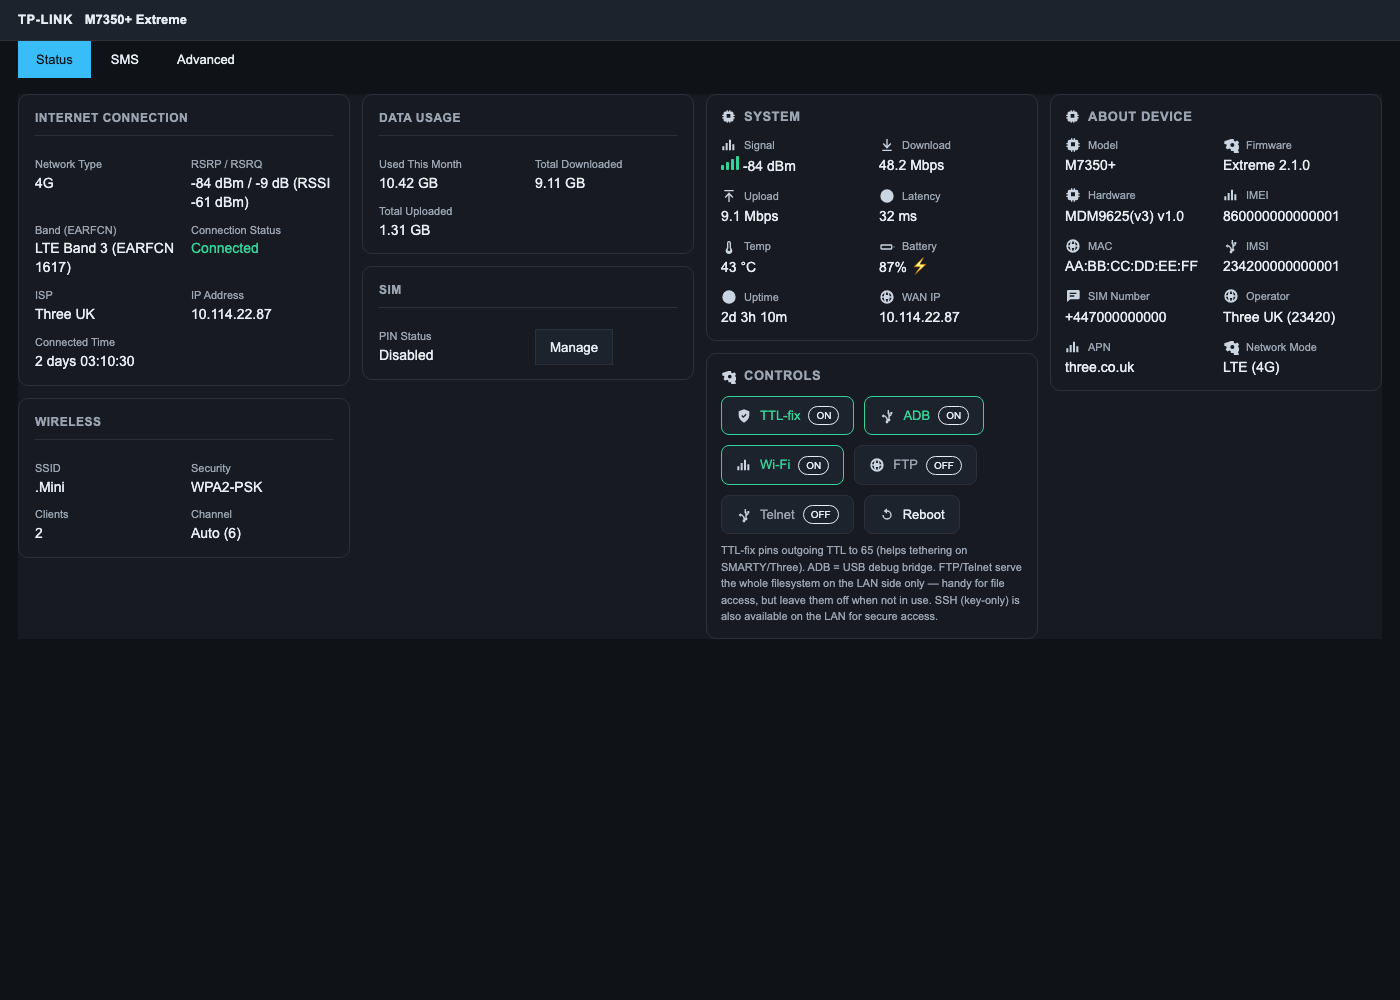
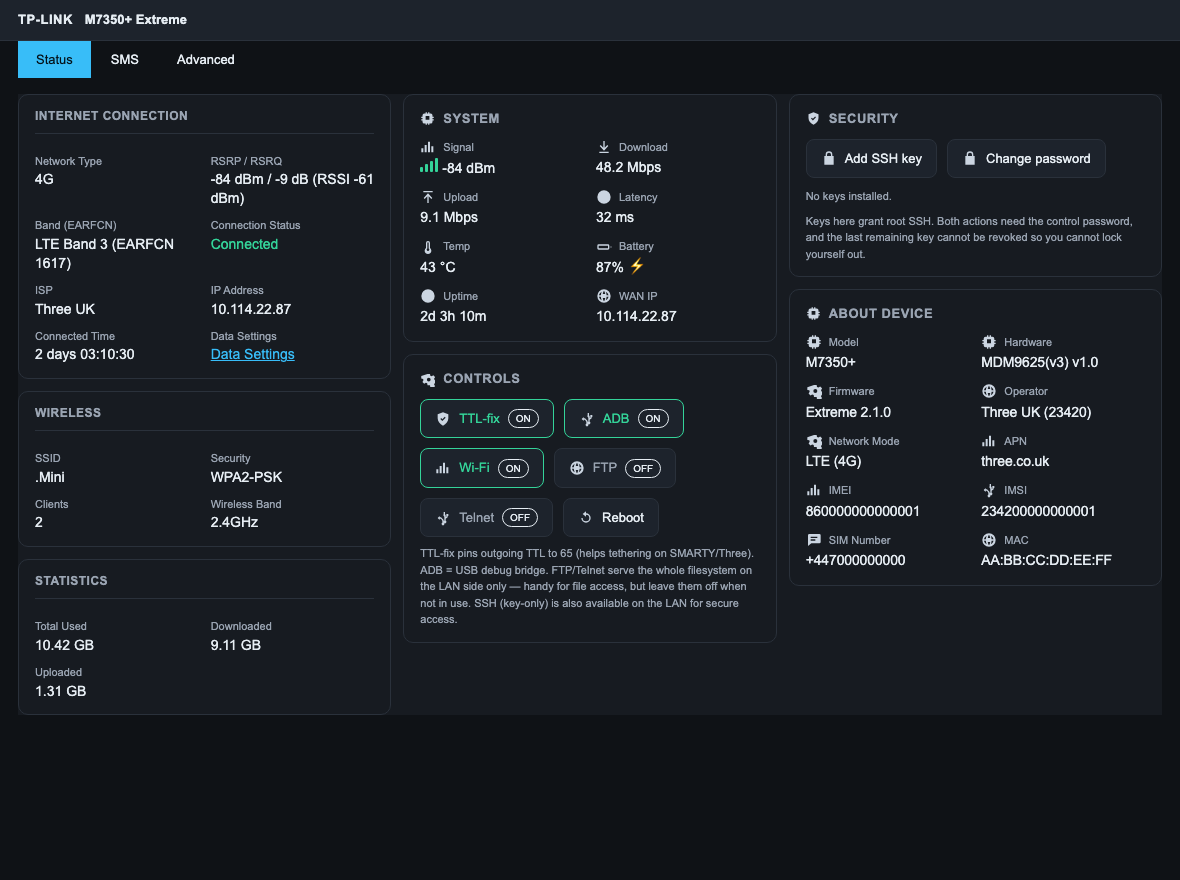
Release 2.3.1: status-page layout fixes, refreshed screenshots
Screenshots regenerated from the corrected mock, so docs/ now shows the layout
the device actually renders rather than the invented one.

diff --git a/tools/mock/status.html b/tools/mock/status.html
@@ -28,7 +28,9 @@
 
       <!-- Also hidden, and positioned by the stock stylesheet. Dissolving these
            with display:contents released their contents into the page. -->
-      <div class="popup" id="errMessagePopup"><div class="textContent">An error occurred.</div></div>
+      <!-- Class list matches the firmware exactly (no "hide" class); the framework
+           hides this at runtime with an inline style, so the mock does the same. -->
+      <div class="popup" id="errMessagePopup" style="display:none"><div class="textContent">An error occurred.</div></div>
       <div class="help-popup hide" id="helpPopup"><div class="help-content" id="helpContent">Help text.</div></div>
 
       <div class="connectionSection">

diff --git a/CHANGELOG.md b/CHANGELOG.md
@@ -2,6 +2,45 @@
 
 All notable changes to the M7350 Extreme mod are documented here.
 
+## [2.3.1] — 2026-08-30  ·  **status page actually works on the device**
+
+2.3.0 shipped a status page that was broken on real hardware. It had been
+"verified" against a mock whose DOM was invented rather than observed, so none of
+the following showed up until it was opened on the router.
+
+### Fixed
+- **The firmware's fixed geometry was never overridden.** `settings.css` pins
+  `.statusPage` to `width:850px; height:500px; min-height:630px` and floats the
+  sections at `49.5%` with `height:310px`, with `height:25px` rows and floated
+  labels. `min-height:630px` is why a tall empty band appeared above the cards:
+  the container holds its height whether or not its children are still in flow.
+  Every one of those declarations is now undone explicitly.
+- **A SIM PIN unlock panel appeared on the status page.** `display:grid!important`
+  on `.pinSection` overrode the firmware's own `.hide` class. Section styling is
+  scoped with `:not(.hide)`, and `.hide` is forced to `display:none` so a stock
+  hide that works by clipping cannot be defeated either.
+- **Cards overlapped each other.** `display:contents` dissolved `.popup` and
+  `.help-popup`, which the stock stylesheet positions itself. The mod no longer
+  restructures any firmware element; the dashboard layout applies only to
+  containers the mod owns.
+- **The SSH key list rendered one character wide.** A flex item defaults to
+  `min-width:auto`, and `overflow-wrap:anywhere` then breaks at every character.
+- **The page used only about two thirds of the window**, because the firmware
+  constrains the wrappers around `.statusPage`. With that lifted, cards get real
+  width and the long identifiers (IMEI, IMSI, MAC) stop breaking mid-token.
+
+### Changed
+- Status cards and the mod's own cards now pack in one masonry flow, so a short
+  card no longer strands the space beneath it. Security and About Device are
+  welded into a single unbreakable unit so they always stay stacked together.
+- About Device is regrouped: what the device is, what network it is on, then the
+  subscriber identifiers together, keeping the long values adjacent.
+- `tools/mock` now carries the firmware's real geometry and hierarchy,
+  transcribed from the device, including the hidden `pinSection` and both popups.
+  Every fault above reproduces there. The previous mock modelled what the
+  firmware was assumed to do rather than what it does, which is the only reason
+  any of this reached a release.
+
 ## [2.3.0] — 2026-08-29  ·  **safe by default**
 
 ### Security

diff --git a/README.md b/README.md
@@ -1,6 +1,6 @@
 # TP-Link M7350 — LTE signal stats + dark UI mod
 
-> **Use [v2.3.0](https://github.com/louij2/tp-link-m7350-signal-mod/releases) or
+> **Use [v2.3.1](https://github.com/louij2/tp-link-m7350-signal-mod/releases) or
 > later.** Earlier versions were progressively less safe by default: v2.0.0
 > shipped the optional root tools (FTP/Telnet/web console) with **no
 > authentication**; v2.1.0 added a password gate but still fell back to
